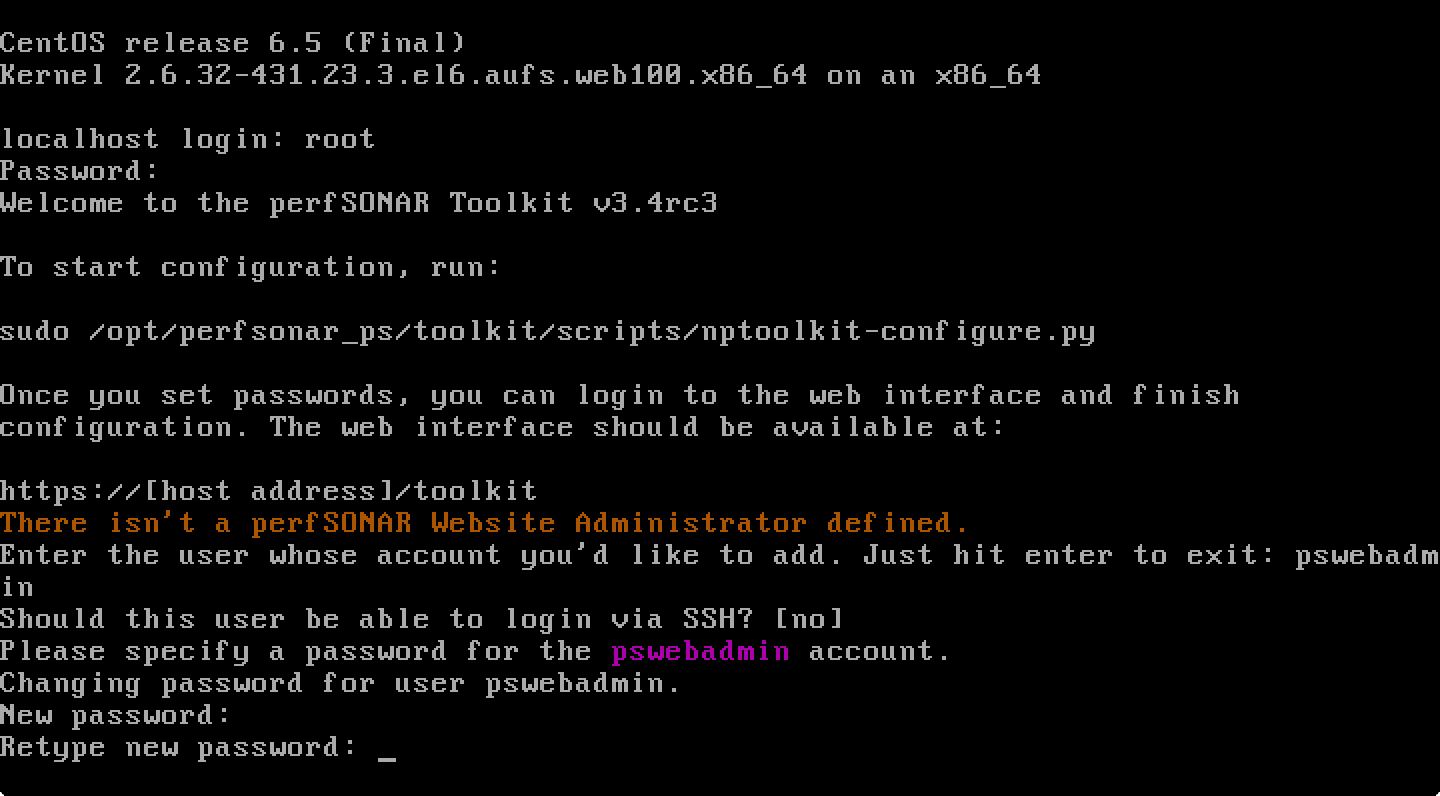
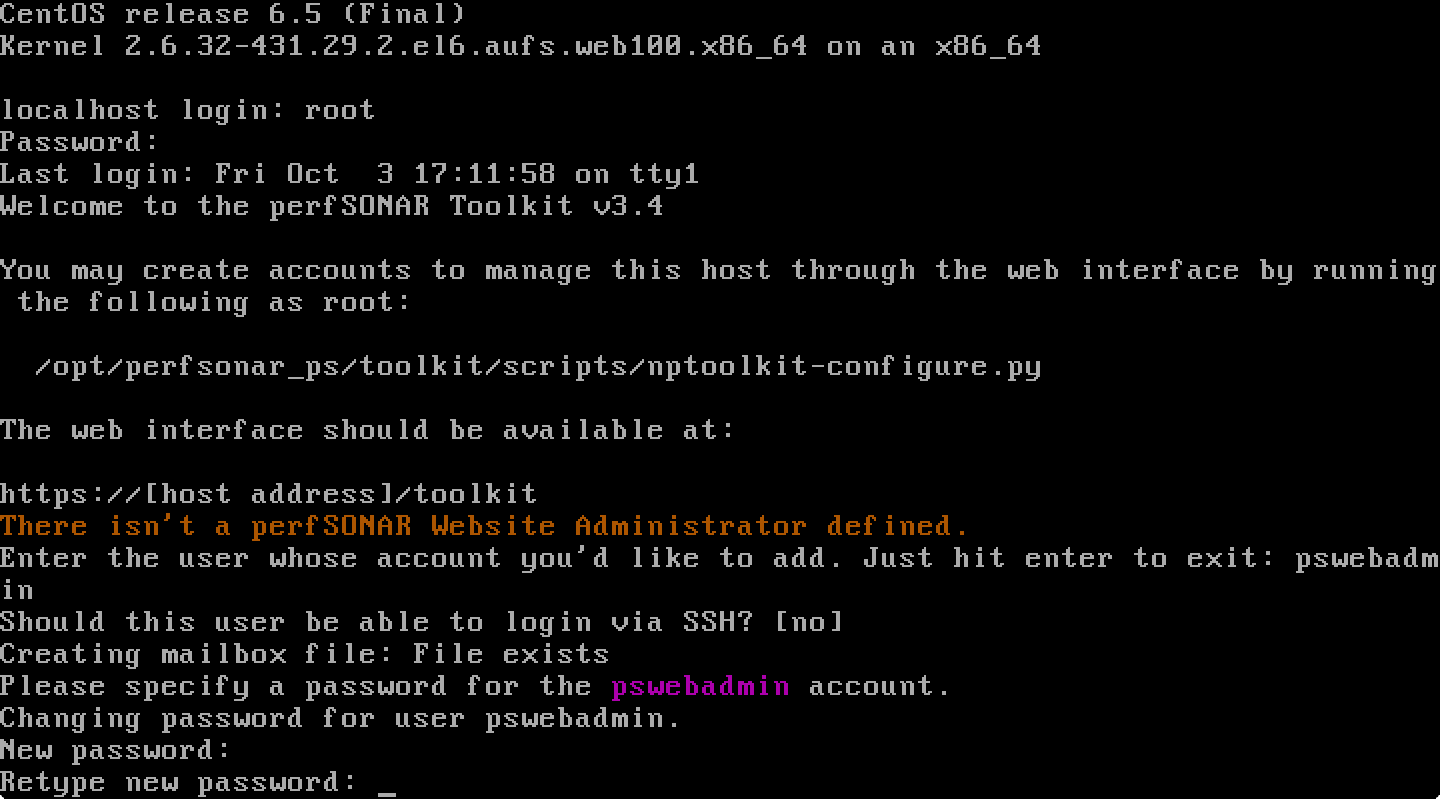
Updating all the first login images so they have the proper boot message. Also minor wording tweak to quick start page

diff --git a/install_quick_start.rst b/install_quick_start.rst
@@ -9,7 +9,7 @@ Quick Start
 #. Follow the prompts provided by the CentOS installer to install the required packages. If you have installed a Linux operating system before, these prompts should be relatively self-explanatory. 
 
         .. seealso:: For a complete walkthrough of these prompts see :doc:`install_centos_netinstall`
-#. Once the installation completes and the host reboots, from the console login using the root password you created during the previous step
+#. Once the installation completes and the host reboots, login from the console using the root password you created during the previous step
 #. You will be prompted to create a user and password that can be used to administer the host through the web interface. Follow the prompts to complete this step.
     .. image:: images/install_config_first_time-user5.png
 #. Open *http://<hostname>* in a web browser where *<hostname>* is the name or address of your host
